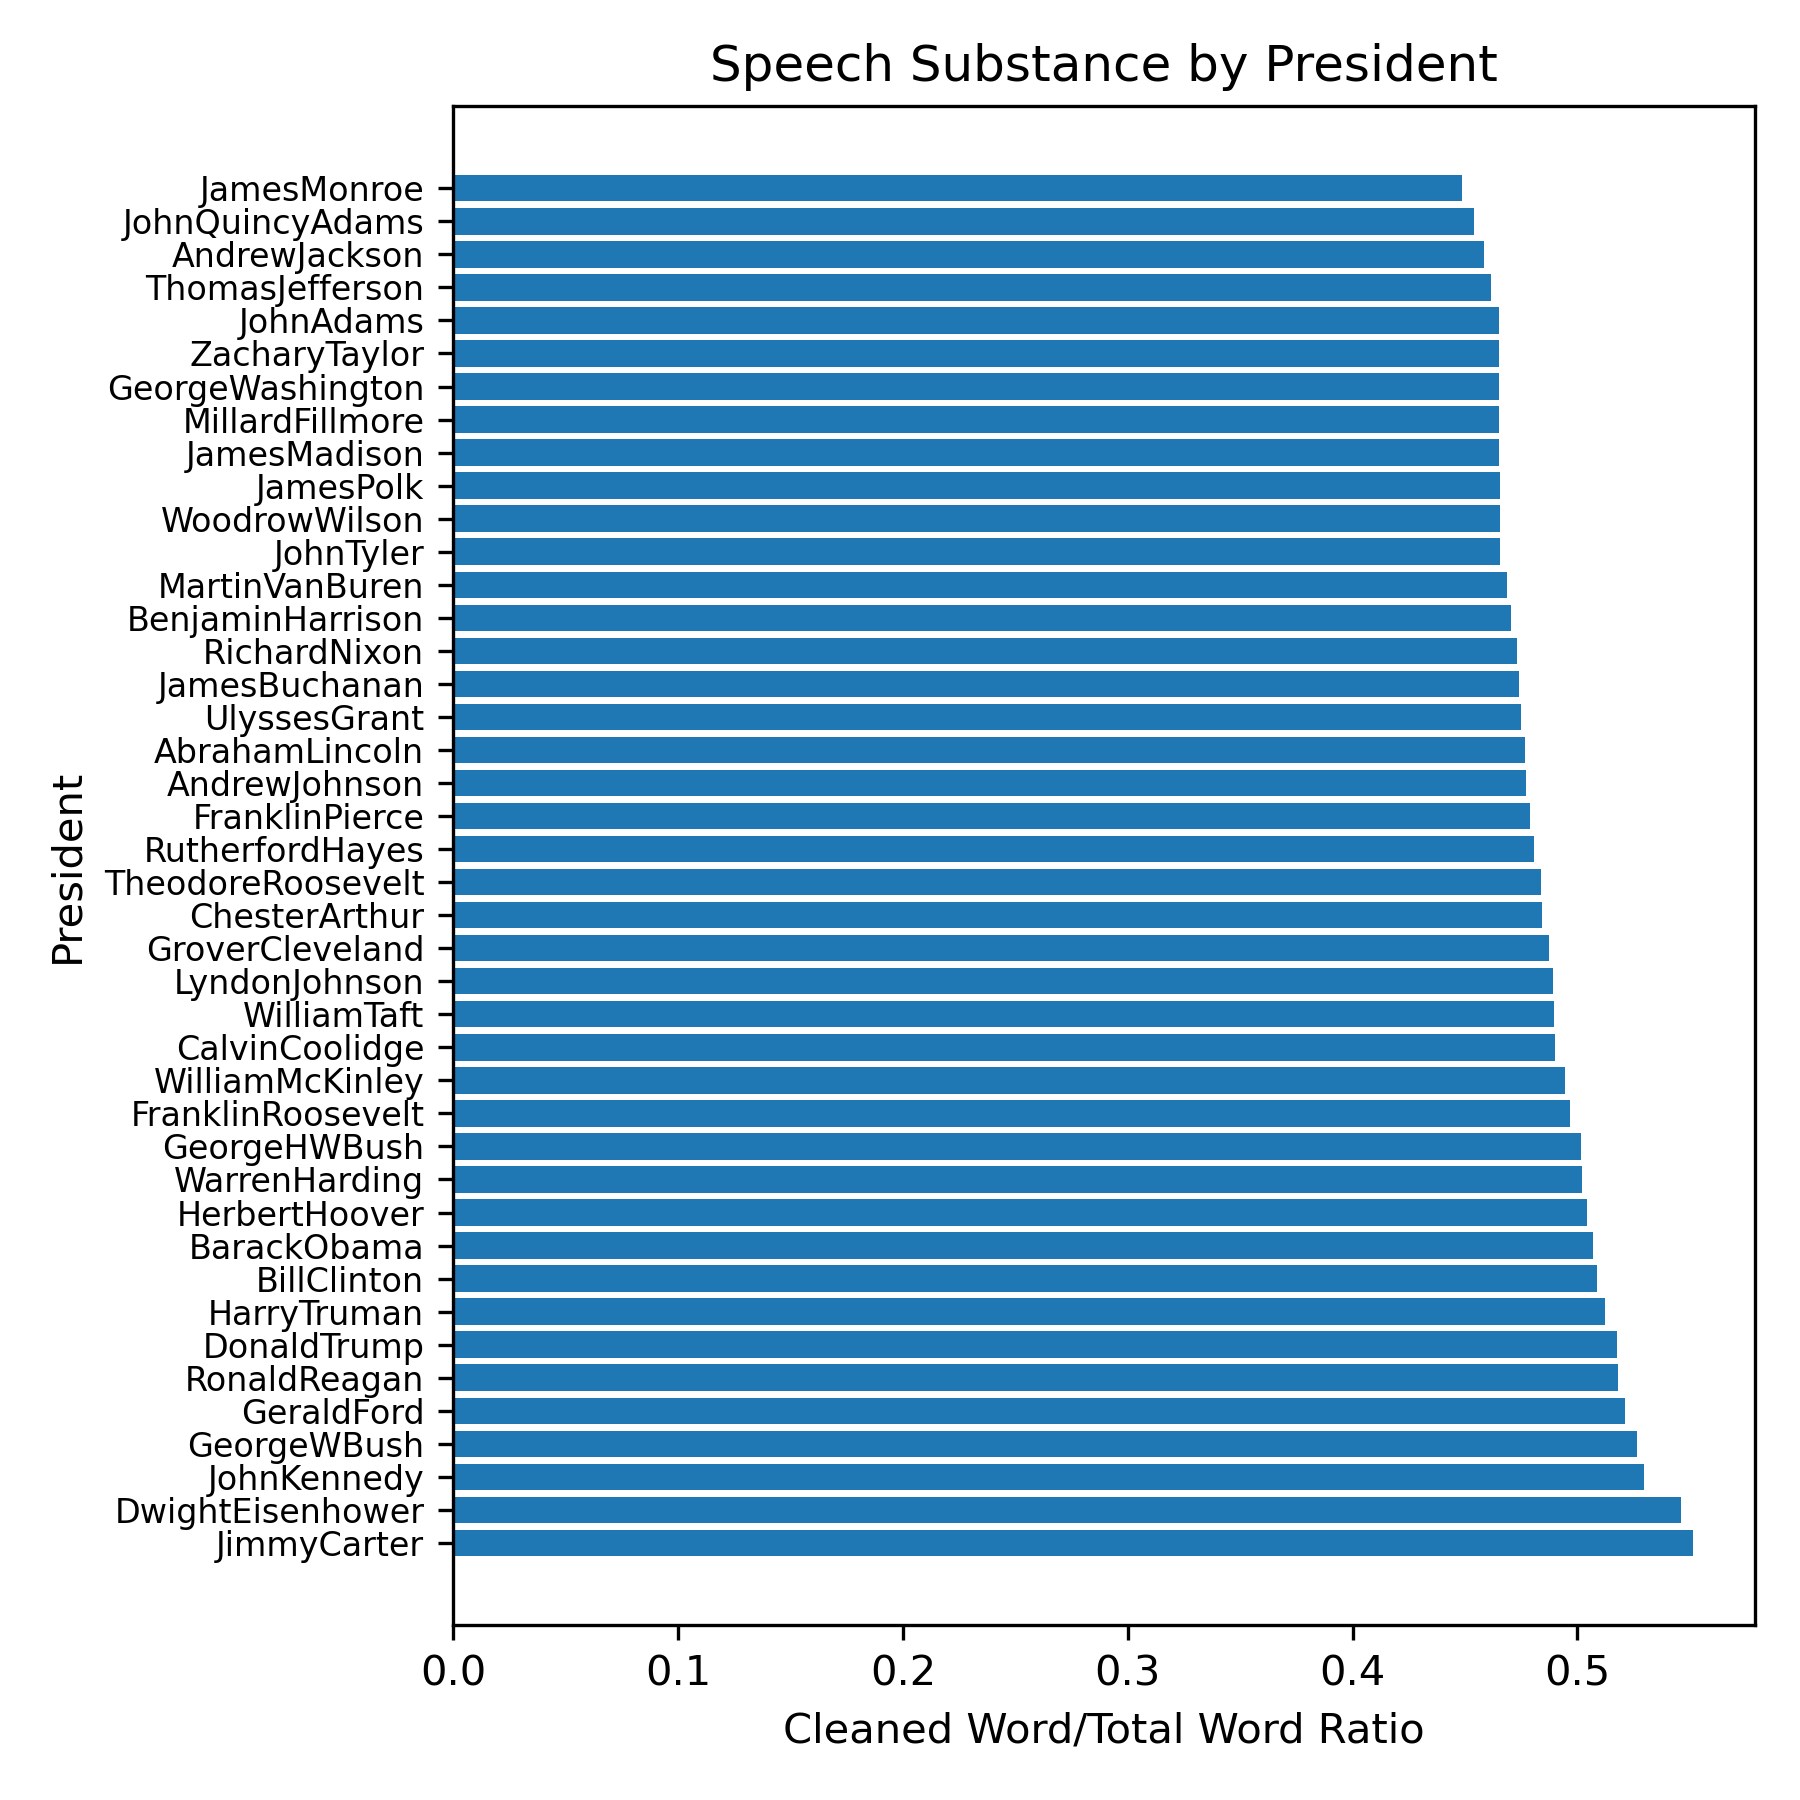
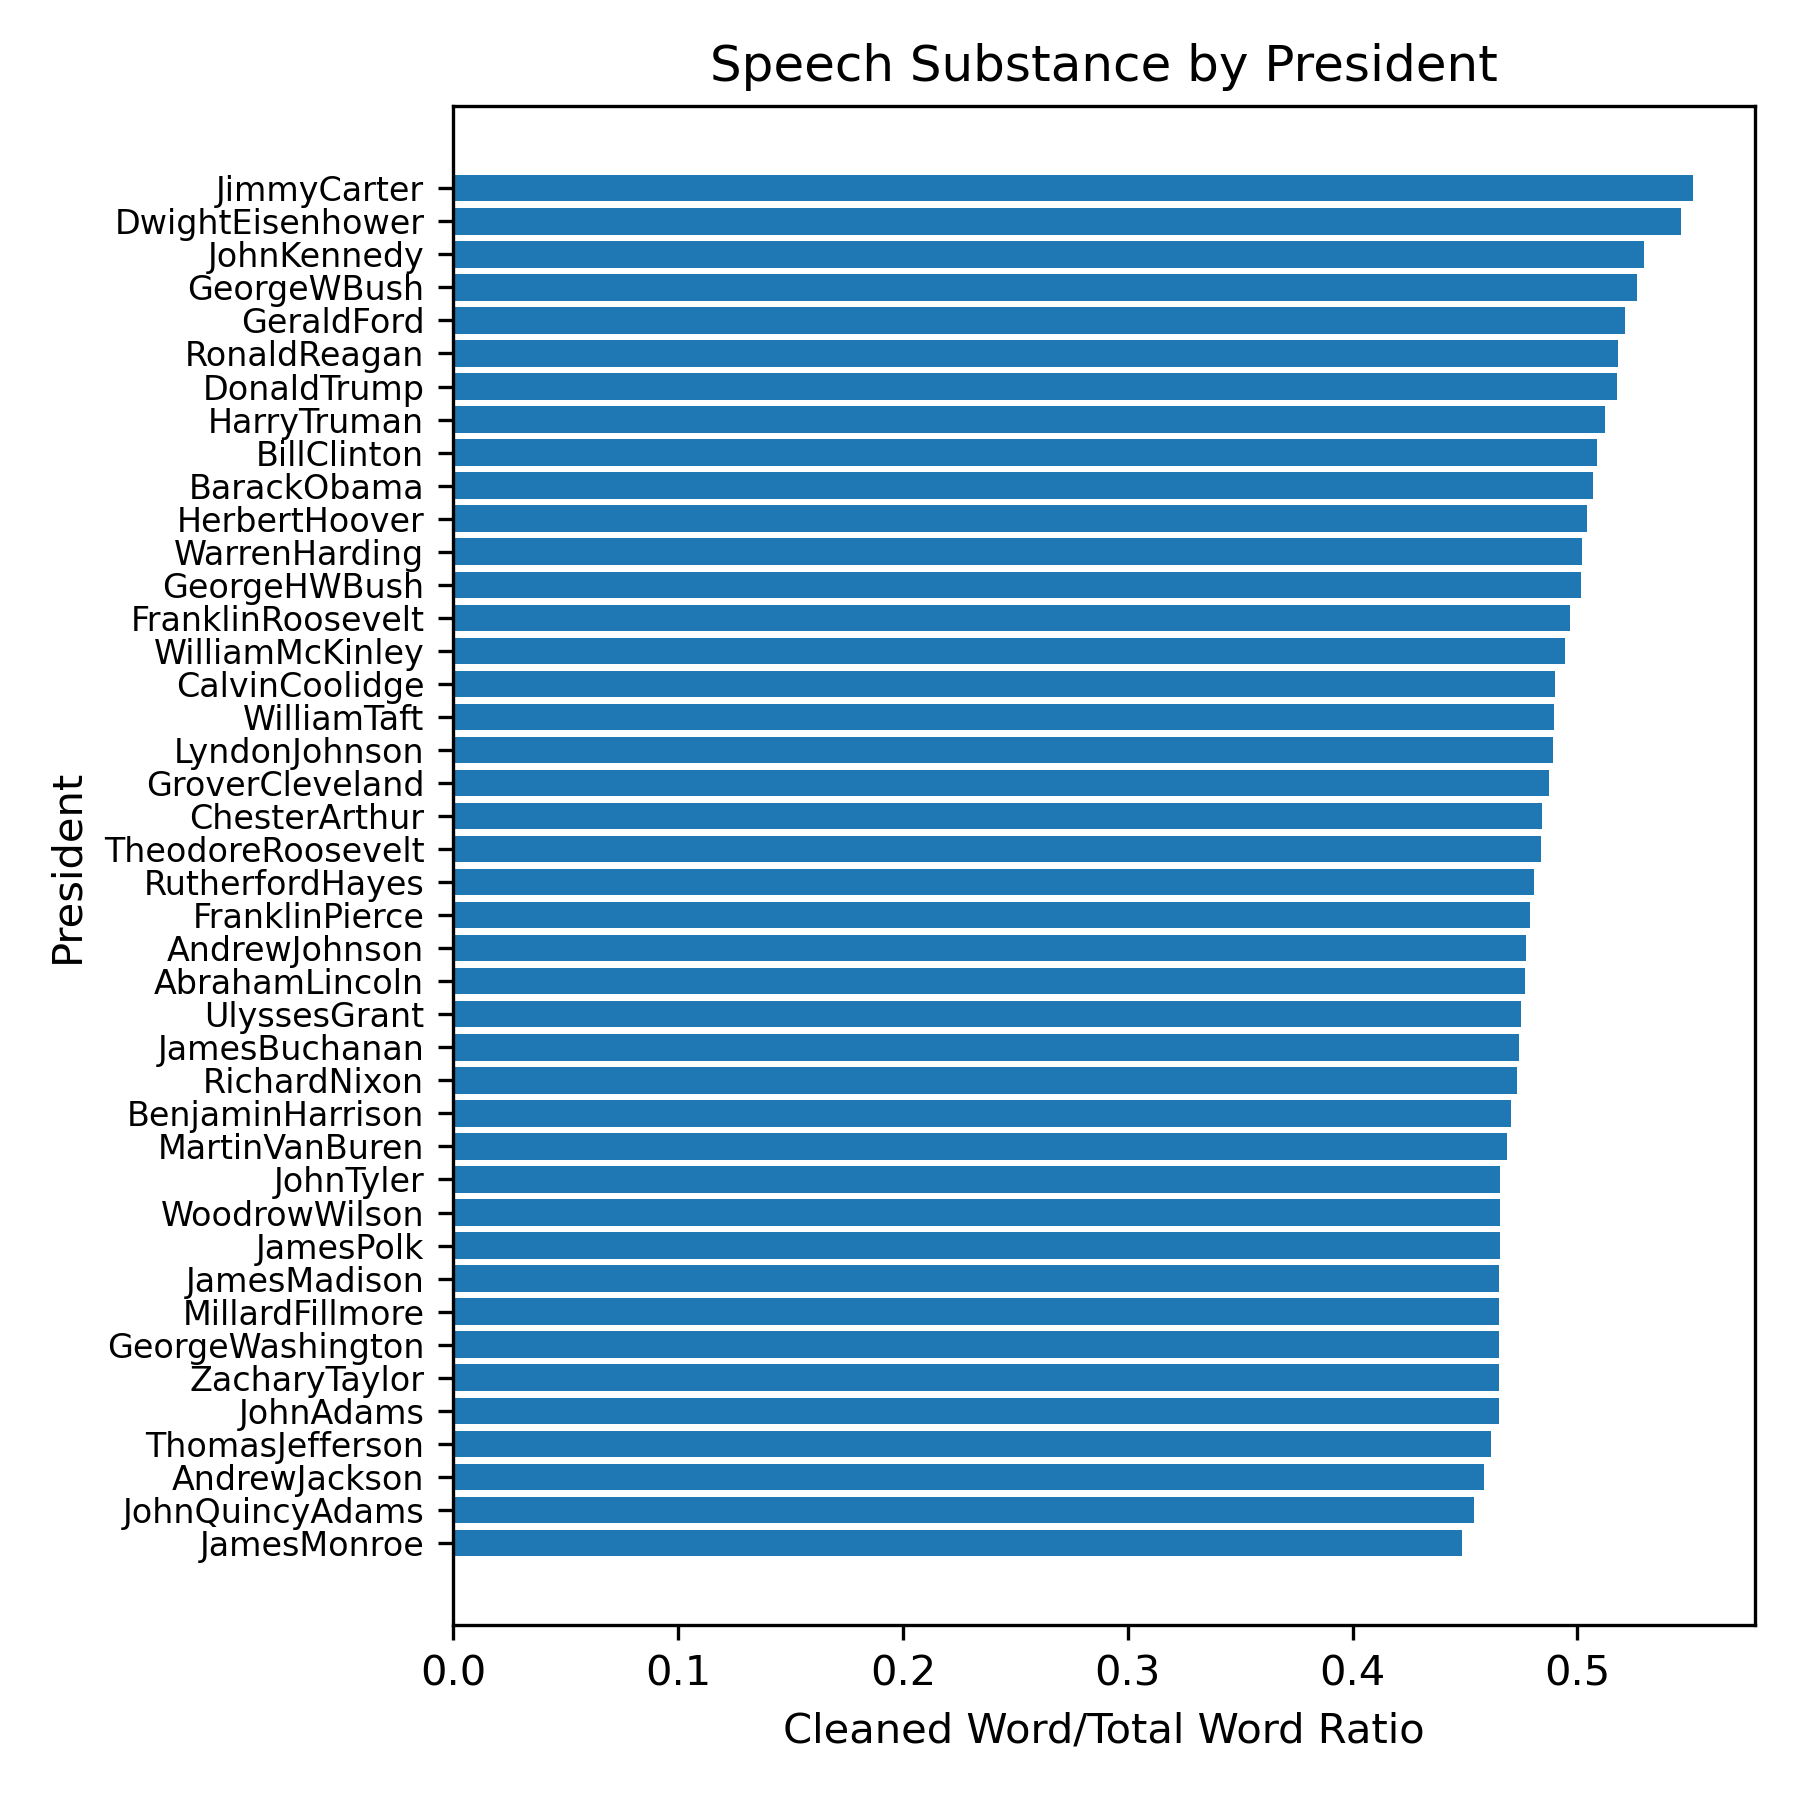
made mooooooooore readme changes, and changed chart sorting

Changed region(s): [[0.0622, 0.0933, 0.2489, 0.8711], [0.8089, 0.0933, 0.9644, 0.8711]]

diff --git a/president_sotu_speech.py b/president_sotu_speech.py
@@ -396,7 +396,7 @@ if __name__ == "__main__":
     fig0.savefig(plot0_filename, dpi=dpi)
     
     fig1, ax1 = plt.subplots(figsize=(6,6))
-    df_sorted_word_per_speech = df_president_speeches.sort_values(by='avg_word_per_speech', ascending=False)
+    df_sorted_word_per_speech = df_president_speeches.sort_values(by='avg_word_per_speech', ascending=True)
     ax1.barh(df_sorted_word_per_speech['prez'], df_sorted_word_per_speech['avg_word_per_speech'], color='tab:blue')
     ax1.set(xlabel='Avg. Words per Speech', ylabel='President', title='Avg. Words per Speech by President')
     ax1.tick_params(axis='y', labelsize=8)
@@ -406,7 +406,7 @@ if __name__ == "__main__":
     
     # We're done charting the word count per speech, now let's chart the word substance per speech
     fig2, ax2 = plt.subplots(figsize=(6,6))
-    df_sorted_word_substance = df_president_speeches.sort_values(by='word_substance', ascending=False)
+    df_sorted_word_substance = df_president_speeches.sort_values(by='word_substance', ascending=True)
     ax2.barh(df_sorted_word_substance['prez'], df_sorted_word_substance['word_substance'], color='tab:blue')
     ax2.set(xlabel='Cleaned Word/Total Word Ratio', ylabel='President', title='Speech Substance by President')
     ax2.tick_params(axis='y', labelsize=8)
@@ -445,7 +445,7 @@ if __name__ == "__main__":
     fig6.savefig(plot6_filename, dpi=dpi)
     
     fig7, ax7 = plt.subplots(figsize=(6,6))
-    df_speeches_sorted_word_substance = df_speeches_sorted.sort_values(by='word_substance', ascending=False)
+    df_speeches_sorted_word_substance = df_speeches_sorted.sort_values(by='word_substance', ascending=True)
     ax7.barh(df_speeches_sorted_word_substance['year'], df_speeches_sorted_word_substance['word_substance'], color='tab:blue')
     ax7.set(xlabel='Cleaned Word/Total Word Ratio', ylabel='Year', title='Speech Substance by Year')
     plt.tight_layout()
@@ -506,7 +506,7 @@ if __name__ == "__main__":
     fig9.savefig(plot9_filename, dpi=dpi)
     
     #fig10, ax10 = plt.subplots(figsize=(6,6))
-    df_speeches_sorted_sentiment = df_speeches_sorted.sort_values(by='sentiment_score', ascending=False)
+    df_speeches_sorted_sentiment = df_speeches_sorted.sort_values(by='sentiment_score', ascending=True)
     #ax10.barh(df_speeches_sorted_sentiment['year'], df_speeches_sorted_sentiment['sentiment_score'], color='tab:blue')
     #ax10.set(xlabel='Sentiment Score by Year', ylabel='Year', title='Sentiment by Year')
     #plt.tight_layout()
@@ -636,7 +636,7 @@ if __name__ == "__main__":
     
     # plot the number of unique words per president, SORTED
     fig18, ax18 = plt.subplots(figsize=(6,6))
-    df_sorted_unique_words = df_president_speeches.sort_values(by='unique_words_per_speech', ascending=False)
+    df_sorted_unique_words = df_president_speeches.sort_values(by='unique_words_per_speech', ascending=True)
     ax18.barh(df_sorted_unique_words['prez'], df_sorted_unique_words['unique_words_per_speech'], color='tab:blue')
     ax18.set(xlabel='Unique Words by President', ylabel='President', title='Unique Words by President (Sorted)')
     ax18.tick_params(axis='y', labelsize=8)
@@ -723,7 +723,7 @@ if __name__ == "__main__":
     fig26.savefig(plot26_filename, dpi=dpi)
     
     fig27, ax27 = plt.subplots(figsize=(6,6))
-    df_speeches_sorted_polarity = df_speeches_sorted.sort_values(by='polarity', ascending=False)  
+    df_speeches_sorted_polarity = df_speeches_sorted.sort_values(by='polarity', ascending=True)  
     ax27.plot(df_speeches_sorted_polarity['year'], df_speeches_sorted_polarity['polarity'], color='tab:blue')
     ax27.set(xlabel='Year', ylabel='Polarity', title='Polarity by Year')
     ax27.set_ylim(0, None)
@@ -732,7 +732,7 @@ if __name__ == "__main__":
     fig27.savefig(plot27_filename, dpi=dpi)
     
     fig28, ax28 = plt.subplots(figsize=(6,6))
-    df_speeches_sorted_subjectivity = df_speeches_sorted.sort_values(by='subjectivity', ascending=False)
+    df_speeches_sorted_subjectivity = df_speeches_sorted.sort_values(by='subjectivity', ascending=True)
     ax28.plot(df_speeches_sorted_subjectivity['year'], df_speeches_sorted_subjectivity['subjectivity'], color='tab:blue')
     ax28.set(xlabel='Year', ylabel='Subjectivity', title='Subjectivity by Year')
     ax28.set_ylim(0, None)
@@ -741,7 +741,7 @@ if __name__ == "__main__":
     fig28.savefig(plot28_filename, dpi=dpi)
     
     fig29, ax29 = plt.subplots(figsize=(6,6))
-    df_president_speeches_polarity = df_president_speeches.sort_values(by='polarity', ascending=False)
+    df_president_speeches_polarity = df_president_speeches.sort_values(by='polarity', ascending=True)
     ax29.plot(df_president_speeches_polarity['polarity'], df_president_speeches_polarity['prez'], color='tab:blue')
     ax29.set(xlabel='Polarity', ylabel='President', title='Polarity by President')
     ax29.tick_params(axis='y', labelsize=8)
@@ -750,7 +750,7 @@ if __name__ == "__main__":
     fig29.savefig(plot29_filename, dpi=dpi)
     
     fig30, ax30 = plt.subplots(figsize=(6,6))
-    df_president_speeches_subjectivity = df_president_speeches.sort_values(by='subjectivity', ascending=False)
+    df_president_speeches_subjectivity = df_president_speeches.sort_values(by='subjectivity', ascending=True)
     ax30.plot(df_president_speeches_subjectivity['subjectivity'], df_president_speeches_subjectivity['prez'], color='tab:blue')
     ax30.set(xlabel='Subjectivity', ylabel='President', title='Subjectivity by President')
     ax30.tick_params(axis='y', labelsize=8)

diff --git a/README.md b/README.md
@@ -102,6 +102,8 @@ My main analytical focus was that of sentiment analysis for this project. There 
 
 ![Sentiment by Year of Presidency](output/Avg-Polarity-by-Year-of-Presidency.png)
 
+![Sentiment by President](output/Line-Sentiment-by-President-SORTED.png)
+
 ![Polarity by President](output/Polarity-by-President-SORTED.png)
 
 ![Subjectivity by President](output/Subjectivity-by-President-SORTED.png)
@@ -109,6 +111,8 @@ My main analytical focus was that of sentiment analysis for this project. There 
 ![Sentiment by Year](output/Line-Sentiment-by-Year-CHRONO.png)
 
 ![Polarity by Year](output/Polarity-by-Year-CHRONO.png)
+
+# 1-gram / 2-gram / 3-gram Charts of Interest
 
 
 <a name="conclusions"/>
